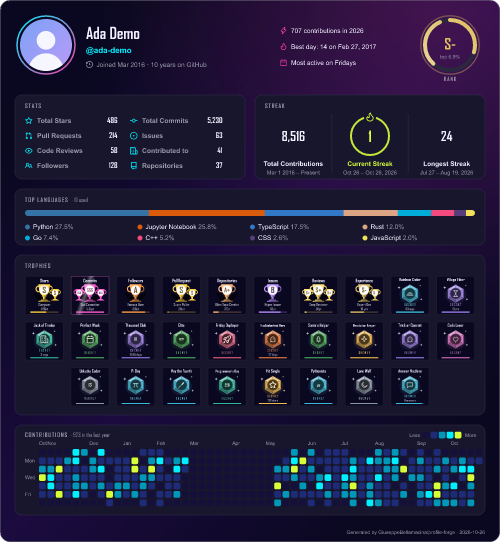
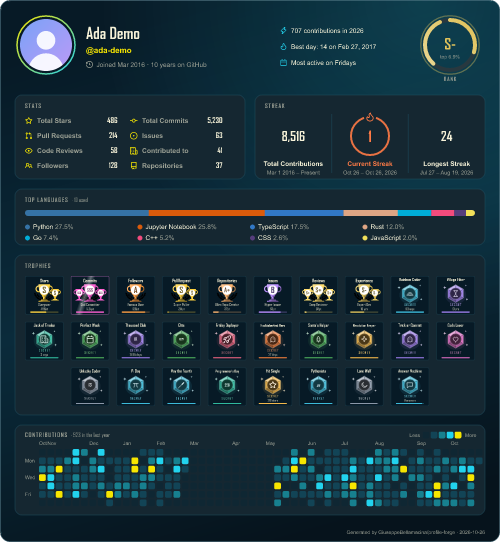
edgerunner after the poster (yellow sky, teal streets, orange tower) and a second one in dark red and yellow; the render can fade the sections (ghost) to place the art

diff --git a/src/themes.js b/src/themes.js
@@ -108,7 +108,8 @@ const THEMES = {
   "shadow-monarch": dv("dark", "#0b0714", "#e6e0ff", "#7c4dff", "#35d0ff", "#c77dff", { bgGradient: "150,#0b0714,#1a1033,#0b0714", heat: ["#150d26", "#2a1a52", "#4b2fa3", "#7c4dff", "#35d0ff"] }),
   "plus-ultra": dv("dark", "#0b1a3a", "#fff7e0", "#ffd21f", "#ff3b30", "#ff7a1a", { bgGradient: "160,#0b1a3a,#123073,#0b1a3a", heat: ["#13244d", "#1c3f8f", "#2a64d6", "#6aa5ff", "#ffd21f"] }),
   dante: dv("dark", "#0e0708", "#f3ece8", "#d11a2a", "#cfd3dc", "#ffb02e", { bgGradient: "145,#0e0708,#2a0b10,#0e0708", heat: ["#1b0c0e", "#4a0f16", "#8f1420", "#d11a2a", "#ff6a4d"] }),
-  edgerunner: dv("dark", "#0a0820", "#f2f0ff", "#00f0ff", "#ff3cac", "#d7ff3a", { bgGradient: "135,#0a0820,#1b0b3f,#0a0820", heat: ["#14103a", "#1d2b78", "#0097b8", "#00f0ff", "#d7ff3a"] }),
+  edgerunner: dv("dark", "#071a26", "#f6f2d8", "#f7e600", "#22d3ee", "#ff7a45", { bgGradient: "165,#071a26,#0a2b3b,#06131c", border: "#1b4a5c", heat: ["#0f2733", "#124456", "#17808f", "#22d3ee", "#f7e600"] }),
+  "edgerunner-red": dv("dark", "#2b0509", "#fff0b8", "#f7e600", "#ff2a45", "#ff7a45", { bgGradient: "160,#2b0509,#3d0a10,#1f0306", border: "#7a1420", heat: ["#3a0c12", "#6b1220", "#a8182c", "#ff2a45", "#f7e600"] }),
 };
 
 // Override keys follow the original projects' names where they exist (bg_color, border_color, currStreakNum, ...).

diff --git a/src/render.js b/src/render.js
@@ -1374,7 +1374,7 @@ function stackSection(d, X, W = 940) {
  * Render the full card. d: summarize() output; k: normalized config (src/config.js).
  * opts.t undefined = animated SVG, number = static frame at that progress.
  */
-export function render(d, { theme = "dark", t, fontCss = "", k = normalize(), colors, boxesOnly = false } = {}) {
+export function render(d, { theme = "dark", t, fontCss = "", k = normalize(), colors, boxesOnly = false, ghost = false } = {}) {
   const c = resolveTheme(theme, colors ?? k.colors);
   if (t === undefined && !k.card.animations) t = 1;
   const A = animator(t);
@@ -1522,7 +1522,7 @@ export function render(d, { theme = "dark", t, fontCss = "", k = normalize(), co
   </defs>${fontCss || A.css.length ? `\n  <style>${fontCss}${A.css.join("")}</style>` : ""}
   ${card("url(#bg)", k.card.hideBorder ? "none" : c.border)}
   <g clip-path="url(#dc-clip)">${under}</g>
-  ${parts.join("\n  ")}
+  ${ghost ? `<g opacity="0.1">${parts.join("\n  ")}</g>` : parts.join("\n  ")}
   ${over}
   <text x="${W - 30}" y="${SH - 16}" text-anchor="end" font-size="10" fill="${c.muted}">${esc(X.tr("generated"))} · ${d.days.at(-1)[0]}</text>
 </svg>`;

diff --git a/presets/README.md b/presets/README.md
@@ -23,6 +23,7 @@ Every preset defines a `dark` and a `light` slot, so the README `<picture>` snip
 | [`zen`](zen.json) | Quiet paper / Rosé Pine Moon, rhythm first, halo frame, honeycomb heatmap, trophies by level |
 | [`showcase`](showcase.json) | Tokyo Night with every new piece: terminal, rhythm, rainbow snake, highlighted trophies |
 | [`edgerunner`](edgerunner.json) | Neon night, a circuit pattern, a skyline, a reticle and glitch bars; hexagon rank, classic Pac-Man maze |
+| [`edgerunner-red`](edgerunner-red.json) | Dark red with yellow labels: a circuit pattern, a system window, a barcode and glitch bars; shield rank, glowing snake |
 | [`shadow-monarch`](shadow-monarch.json) | Violet and electric blue, a hex pattern, a rune circle and system window; shield rank, glowing snake |
 | [`dante`](dante.json) | Black, crimson and silver, faint wings and blades; shield rank |
 | [`hero-x`](hero-x.json) | Pop-art halftone in cyan, magenta and yellow, a burst and a bolt; open Pac-Man maze |
@@ -165,3 +166,11 @@ Every preset defines a `dark` and a `light` slot, so the README `<picture>` snip
 | Dark | Light |
 |---|---|
 | <img src="../docs/presets/plus-ultra-dark.png"> | <img src="../docs/presets/plus-ultra-light.png"> |
+
+## edgerunner-red
+
+[`edgerunner-red.json`](edgerunner-red.json)
+
+| Dark | Light |
+|---|---|
+| <img src="../docs/presets/edgerunner-red-dark.png"> | <img src="../docs/presets/edgerunner-red-light.png"> |

diff --git a/GUIDE.md b/GUIDE.md
@@ -678,7 +678,7 @@ A list (`["dracula", "nord"]` → `profile-forge-dracula.svg`, `profile-forge-no
 { "themes": { "dark": "dracula", "light": "gruvbox-light" } }
 ```
 
-There are 78 built-in themes. Previews of all of them are in [`docs/themes/`](docs/themes).
+There are 79 built-in themes. Previews of all of them are in [`docs/themes/`](docs/themes).
 
 | | |
 |---|---|
@@ -692,7 +692,7 @@ There are 78 built-in themes. Previews of all of them are in [`docs/themes/`](do
 | **More editor themes** | `tokyo-night` `tokyo-night-storm` `tokyo-night-day` `kanagawa-wave` `moonlight` `poimandres` `vesper` `rose-pine-moon` `rose-pine-dawn` `night-owl-light` `andromeda` `panda` `everblush` `cyberdream` `nord-light` |
 | **Gradient** | `ambient-gradient` `sunset-gradient` `aurora-gradient` `ocean-gradient` `candy-gradient` |
 | **Originals** | `sakura` `lava` `glacier` `forest-night` `coffee` `amber` `paper` |
-| **Inspired by a series** | `hero-x` `shadow-monarch` `plus-ultra` `dante` `edgerunner` (palettes and mood only; each has a preset with art on the card) |
+| **Inspired by a series** | `hero-x` `shadow-monarch` `plus-ultra` `dante` `edgerunner` `edgerunner-red` (palettes and mood only; each has a preset with art on the card) |
 
 Dark themes use the dark trophy palette and light themes the light one (`base`).
 

diff --git a/README.md b/README.md
@@ -7,7 +7,7 @@
 [![License: MIT](https://img.shields.io/badge/license-MIT-blue.svg)](LICENSE)
 ![Node](https://img.shields.io/badge/node-%E2%89%A520-339933?logo=node.js&logoColor=white)
 ![Dependencies](https://img.shields.io/badge/dependencies-0-brightgreen)
-![Themes](https://img.shields.io/badge/themes-78-8b5cf6)
+![Themes](https://img.shields.io/badge/themes-79-8b5cf6)
 ![Locales](https://img.shields.io/badge/languages-8-f59e0b)
 
 [**Web configurator**](https://giuseppebellamacina.github.io/profile-forge-configurator/) · [**Quick start**](#quick-start-github-action) · [**Full guide**](GUIDE.md) · [**Presets**](presets) · [**Trophies**](TROPHIES.md) · [**Themes**](docs/themes)
